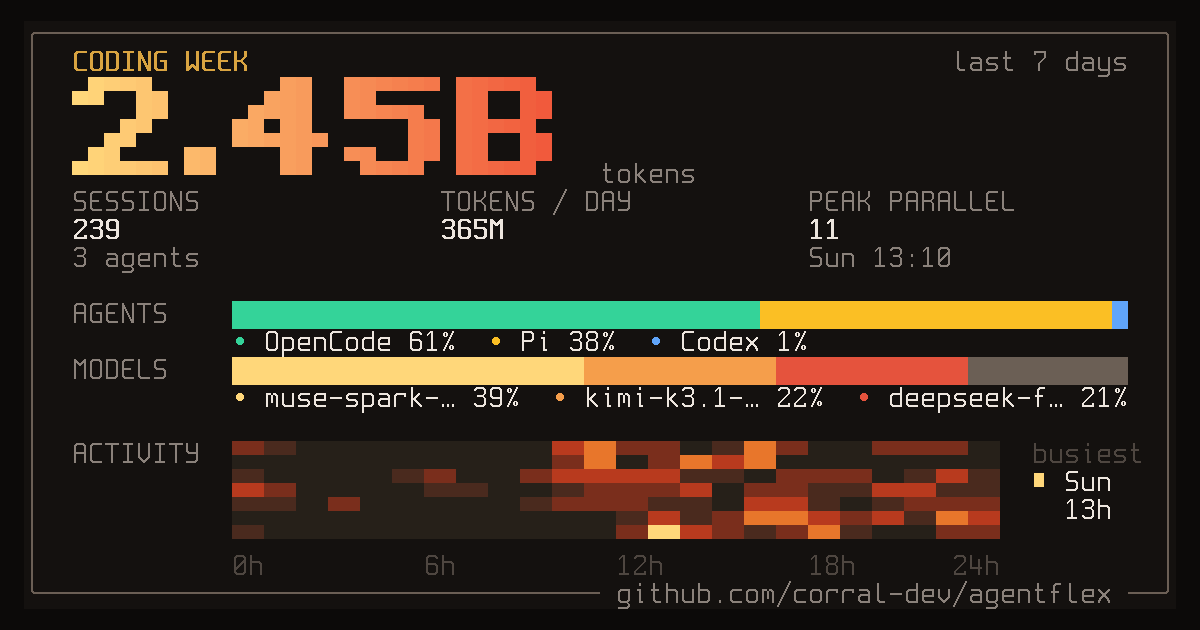
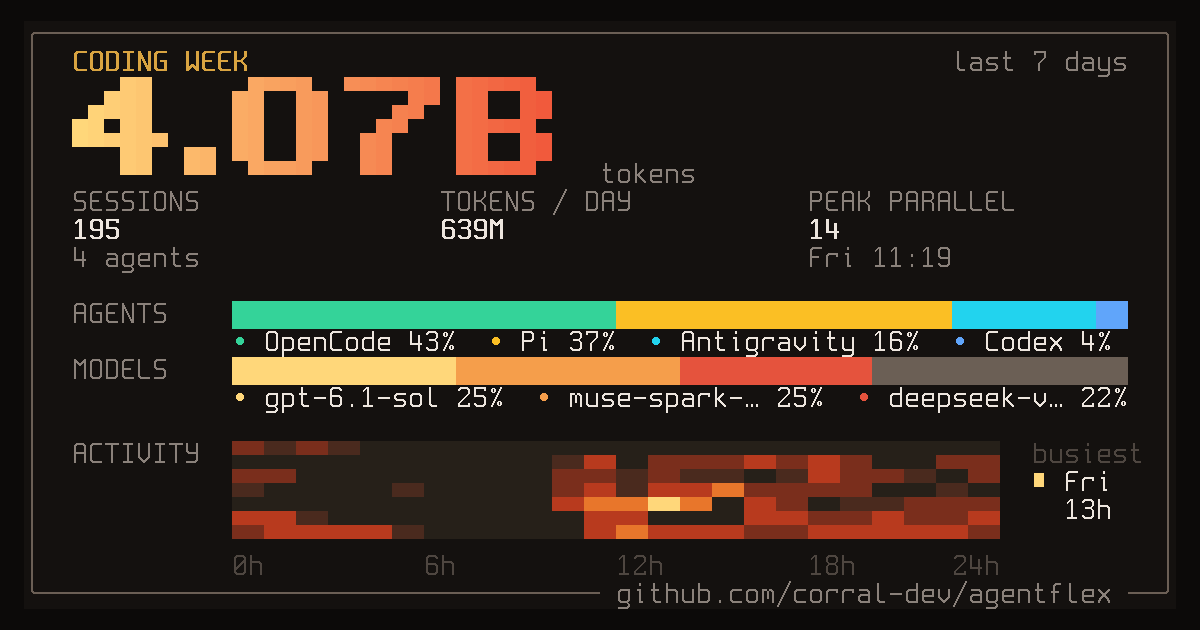
chore: weekly agentflex card (2026-11-16, 195 sessions, 4.07B tokens)

diff --git a/README.md b/README.md
@@ -22,6 +22,6 @@ I build local-first tools for heavy AI coding workflows and native macOS utiliti
 #### 📊 Coding Week
 <!-- agentflex-start -->
 ![coding-agent week](./assets/agentflex-week.png)
-*Week of 2026-11-10 · 239 sessions · 2.45B tokens · peak 11 parallel (11-08 13:10) — auto-updated weekly by [agentflex](https://github.com/corral-dev/agentflex).*
+*Week of 2026-11-16 · 195 sessions · 4.07B tokens · peak 14 parallel (11-13 11:19) — auto-updated weekly by [agentflex](https://github.com/corral-dev/agentflex).*
 <!-- agentflex-end -->
 *If something here saves you time or tokens, star the repos so you can find them again later.*
